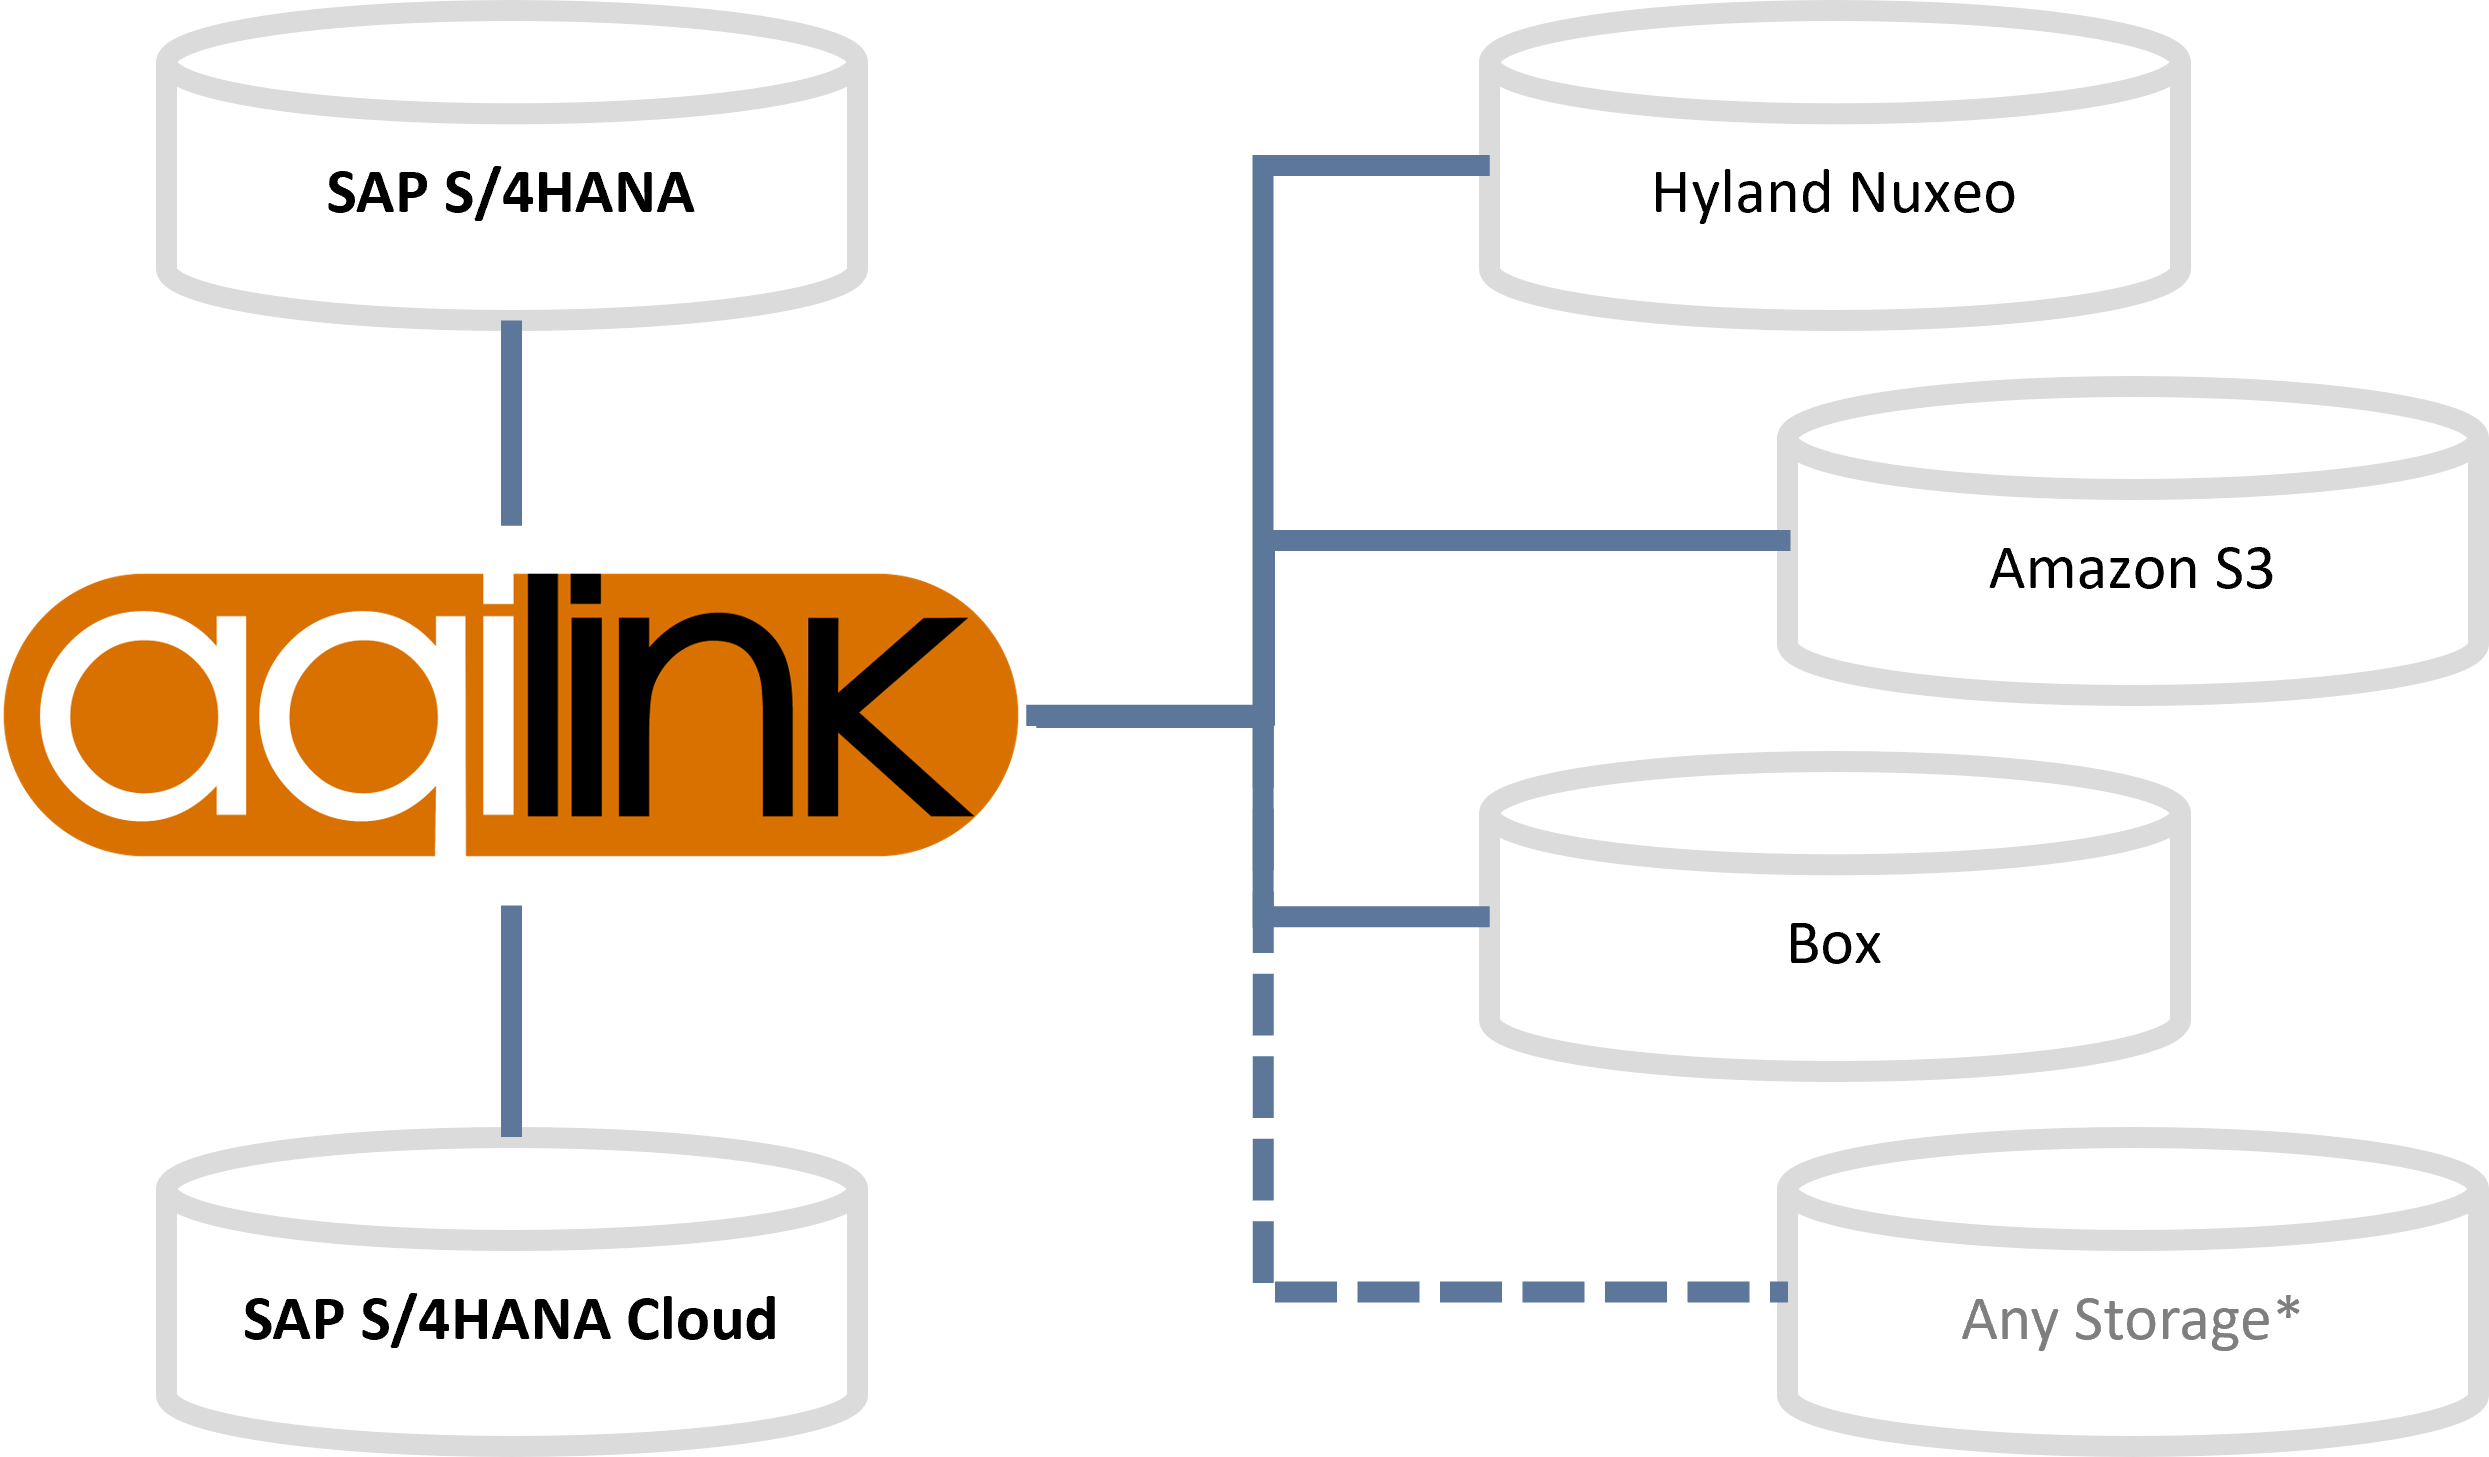
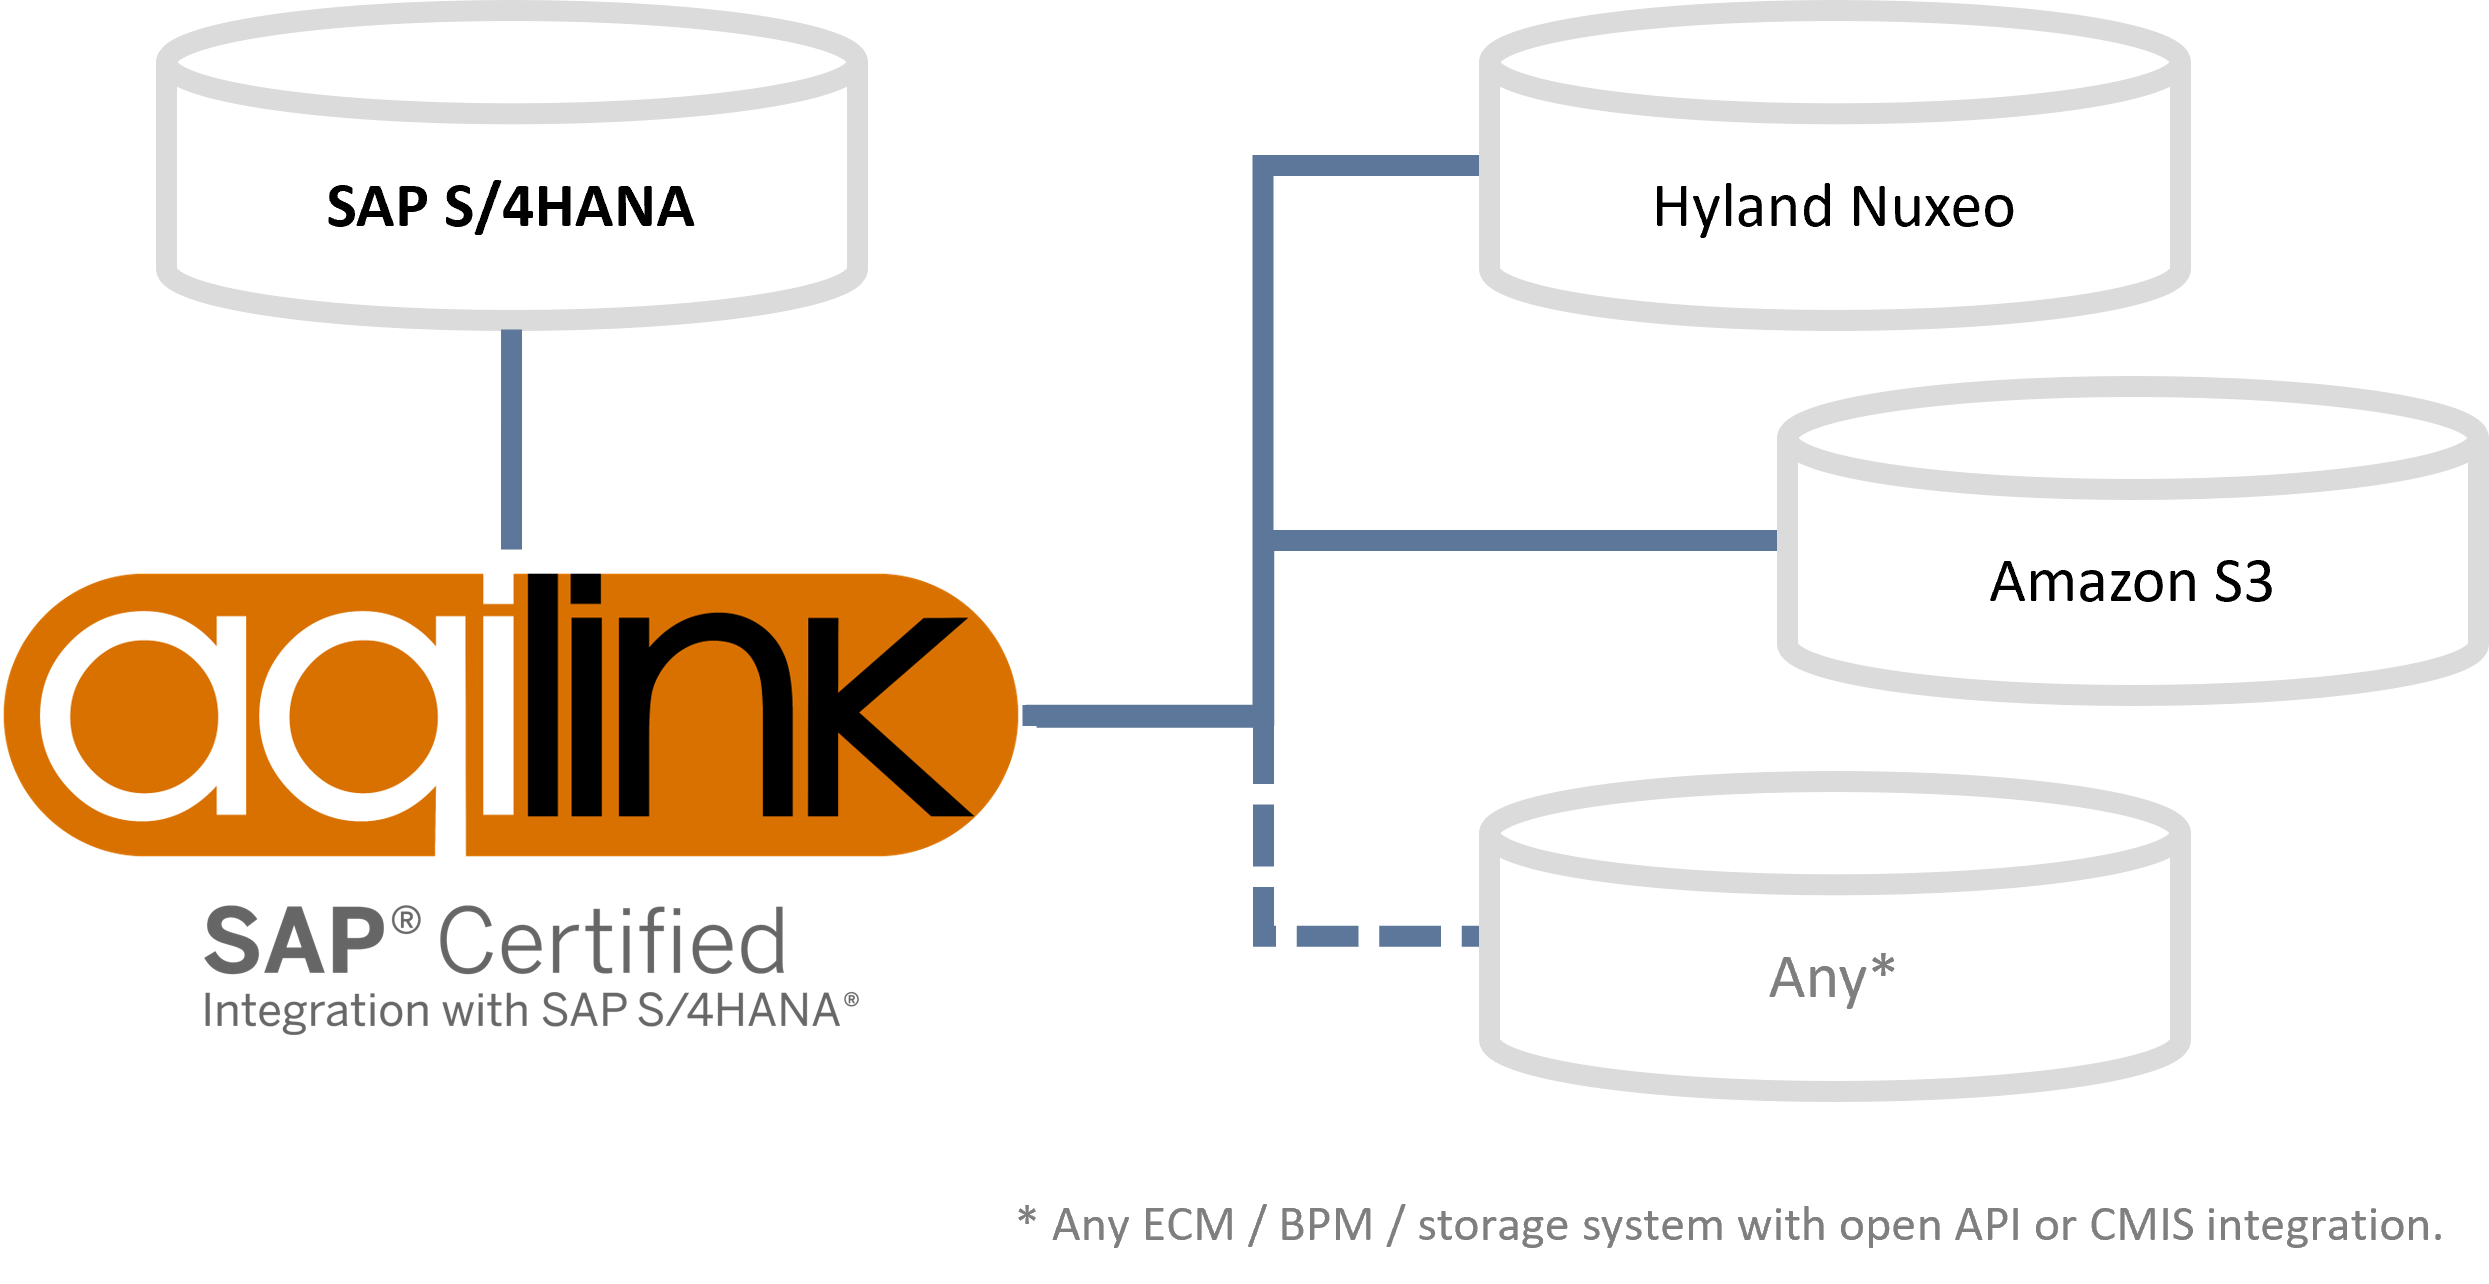
Changed architecture image, added link to SAP Partner page, slightly content changes

diff --git a/docs/_coverpage.md b/docs/_coverpage.md
@@ -4,8 +4,7 @@
 
 # Documentation Portal
 
-<img src="_media/logo_sap_partner_1.png" alt="SAP Partner" width="150"/>
-<a href="https://www.sap.com/dmc/exp/2013_09_adpd/enEN/#/partners?search=aqipro&id=p:5f07cf56-d575-42ea-923b-ccf00c46ed08" target="_blank" title="Open SAP Certified Solution Directory"><img src="_media/logo_sap_certified_1.png" alt="SAP certified integration" width="300"/></a>
+<a href="https://www.sap.com/dmc/exp/2013_09_adpd/enEN/#/partners?search=aqipro&id=p:5f07cf56-d575-42ea-923b-ccf00c46ed08" target="_blank" title="Open SAP Certified Solution Directory"><img src="_media/logo_sap_certified_1.png" alt="SAP certified integration" width="300"/></a>&nbsp;<a href="https://pf-prod-sapit-partner-prod.cfapps.eu10.hana.ondemand.com/profile/0002752567" target="_blank" title="Open aqipro on SAP Partner portal"><img src="_media/logo_sap_partner_1.png" alt="SAP Partner" width="150"/></a>
 
 <!-- Hyland Nuxeo | Amazon S3 -->
 

diff --git a/docs/installation/app-prerequisites.md b/docs/installation/app-prerequisites.md
@@ -9,12 +9,9 @@ Below are the environment/software prerequisites to successfully run **`aqilink`
 To successfully run the SAP certified integration **`aqilink`**, the following requirements must be fulfilled:
 
 * Valid License key
-* Docker
+* Container Runtime
 * Internet connection
-* [Container orchestration tool like Docker Swarm or Kubernetes]
 
-### Sizing
-TBD
 
 ## SAP
 
@@ -34,6 +31,7 @@ TBD
 * Nuxeo LTS 2019 (or up to latest)
 * Separate Nuxeo user only used for the SAP integration (recommended) 
 
-## Amazon S3
+## AWS S3
 
-* Amazon S3 account
+* AWS account
+* Access / Secret key
